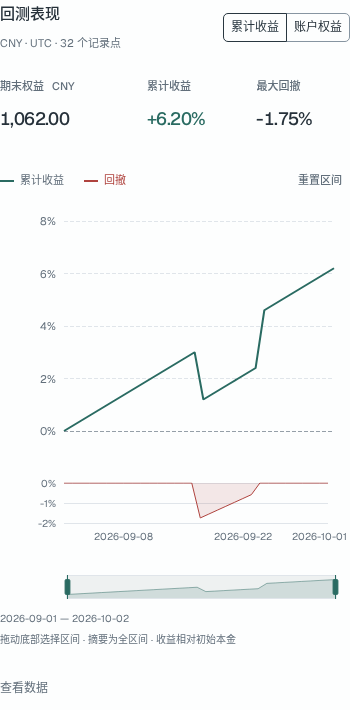
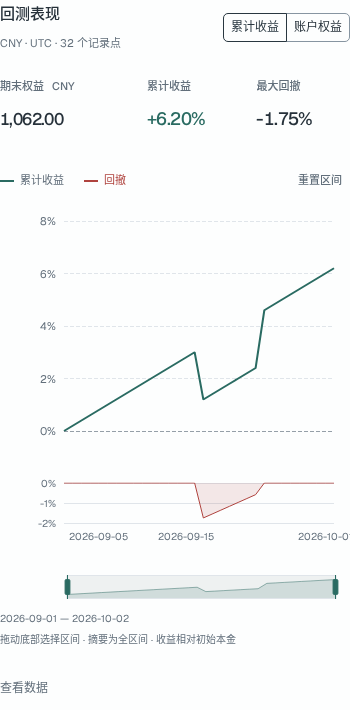
fix(web): retain exact decimal and co-located equity readouts

diff --git a/apps/web/src/equity-plot.tsx b/apps/web/src/equity-plot.tsx
@@ -6,7 +6,7 @@ import { AriaComponent, DataZoomComponent, GridComponent, MarkLineComponent, Too
 import { SVGRenderer } from 'echarts/renderers';
 import { Button, Radio, Table, theme } from 'antd';
 import type { EquityPoint } from '../../../packages/contracts/src/index.ts';
-import { equityCoordinates, equityPerformance, orderedEquityPoints } from './equity-values';
+import { equityCoordinates, equityPerformance, formatEquity, orderedEquityPoints } from './equity-values';
 import { Empty, Exact, Timestamp } from './ui';
 
 echarts.use([LineChart, GridComponent, TooltipComponent, DataZoomComponent, MarkLineComponent, AriaComponent, SVGRenderer]);
@@ -18,13 +18,18 @@ export default function EquityPlot({ points, currency, initialCapital }: { point
   const ordered = useMemo(() => orderedEquityPoints(points), [points]);
   const coordinates = useMemo(() => equityCoordinates(points), [points]);
   const performance = useMemo(() => equityPerformance(ordered, initialCapital), [ordered, initialCapital]);
+  const clockGroups = useMemo(() => {
+    const groups = new Map<number, number[]>();
+    coordinates.forEach(([at], index) => { const group = groups.get(at); if (group) group.push(index); else groups.set(at, [index]); });
+    return groups;
+  }, [coordinates]);
+  const tablePoints = useMemo(() => [...ordered, ...points.filter(point => !Number.isFinite(Date.parse(point.at)))], [ordered, points]);
   const [view, setView] = useState<'return' | 'equity'>('return');
   const showReturn = performance.hasCapital && view === 'return';
   const invalidTimes = points.length - ordered.length;
   const drawdownAvailable = performance.maxDrawdown !== null && invalidTimes === 0;
   const drawable = coordinates.some(point => point[1] !== null);
   const latest = invalidTimes ? undefined : ordered.at(-1);
-  const latestValue = invalidTimes ? null : coordinates.at(-1)?.[1];
   const latestReturn = invalidTimes ? null : performance.returns.at(-1);
   const { token } = theme.useToken();
   const { colorLink: accent, colorTextSecondary: secondary, colorBorderSecondary: line, colorError: loss, colorBgContainer: surface, colorText: text } = token;
@@ -41,16 +46,19 @@ export default function EquityPlot({ points, currency, initialCapital }: { point
       axisLine: { show: false }, axisTick: { show: false }, splitLine: { show: false }, splitNumber: 4,
       axisLabel: { show: visible, color: secondary, hideOverlap: true, fontSize: 10, formatter: (value: number) => { const at = new Date(value).toISOString(); return intraday ? at.slice(11, 19) : at.slice(0, 10); } } });
     chart.current?.setOption({ animation: false, useUTC: true, textStyle: { fontFamily: '"Geist Variable", system-ui, sans-serif' }, aria: { enabled: true, label: { description } },
-      grid: [{ top: 18, right: 16, bottom: drawdownAvailable ? '43%' : 80, left: 64 }, ...(drawdownAvailable ? [{ top: '70%', right: 16, bottom: 80, left: 64 }] : [])],
+      grid: [{ top: 18, right: 16, bottom: drawdownAvailable ? '43%' : 80, left: 64, outerBoundsMode: 'none' }, ...(drawdownAvailable ? [{ top: '70%', right: 16, bottom: 80, left: 64, outerBoundsMode: 'none' }] : [])],
       axisPointer: { link: [{ xAxisIndex: 'all' }], lineStyle: { color: secondary, type: 'dashed' } },
       tooltip: { trigger: 'axis', confine: true, renderMode: 'richText', backgroundColor: surface, borderColor: line, textStyle: { color: text, fontSize: 12 },
         formatter: (params: unknown) => {
           const item = (Array.isArray(params) ? params[0] : params) as { dataIndex: number } | undefined;
-          const index = item?.dataIndex; const point = index === undefined ? undefined : ordered[index];
-          return point ? `${point.at.replace('T', ' ').replace('Z', ' UTC')}\n账户权益  ${point.value ?? '未提供'} ${currency}${performance.hasCapital ? `\n累计收益  ${percent(performance.returns[index!])}\n回撤  ${drawdownAvailable ? percent(performance.drawdowns[index!]) : '不可用（记录不完整）'}` : ''}` : '';
+          const index = item?.dataIndex; const coordinate = index === undefined ? undefined : coordinates[index];
+          return coordinate ? (clockGroups.get(coordinate[0]) ?? []).map(index => {
+            const point = ordered[index]!;
+            return `${point.at.replace('T', ' ').replace('Z', ' UTC')}\n账户权益  ${point.value ?? '未提供'} ${currency}${performance.hasCapital ? `\n累计收益  ${percent(performance.returns[index])}\n回撤  ${drawdownAvailable ? percent(performance.drawdowns[index]) : '不可用（记录不完整）'}` : ''}`;
+          }).join('\n\n') : '';
         } },
       xAxis: [timeAxis(0, !drawdownAvailable), ...(drawdownAvailable ? [timeAxis(1, true)] : [])],
-      yAxis: [{ type: 'value', scale: true, splitNumber: 4, axisLabel: { color: secondary, fontSize: 11, formatter: (value: number) => showReturn ? `${axisNumber(value)}%` : axisNumber(value) }, splitLine: { lineStyle: { color: line, type: 'dashed' } } },
+      yAxis: [{ type: 'value', scale: true, splitNumber: 4, axisLabel: { color: secondary, fontSize: 11, width: 54, overflow: 'truncate', formatter: (value: number) => showReturn ? `${axisNumber(value)}%` : axisNumber(value) }, splitLine: { lineStyle: { color: line, type: 'dashed' } } },
         ...(drawdownAvailable ? [{ type: 'value', gridIndex: 1, max: 0, scale: true, splitNumber: 2, axisLabel: { color: secondary, fontSize: 10, formatter: (value: number) => `${axisNumber(value)}%` }, splitLine: { lineStyle: { color: line } } }] : [])],
       dataZoom: [{ id: 'time-slider', type: 'slider', xAxisIndex: drawdownAvailable ? [0, 1] : [0], filterMode: 'none', bottom: 4, height: 24, borderColor: line, backgroundColor: 'transparent', fillerColor: 'rgba(128,150,146,0.12)', textStyle: { color: secondary }, handleStyle: { color: accent, borderColor: accent }, dataBackground: { lineStyle: { color: secondary }, areaStyle: { color: line } }, selectedDataBackground: { lineStyle: { color: accent }, areaStyle: { color: accent, opacity: 0.16 } }, brushSelect: false, showDetail: false },
         { id: 'time-inside', type: 'inside', xAxisIndex: drawdownAvailable ? [0, 1] : [0], filterMode: 'none', zoomOnMouseWheel: 'ctrl' }],
@@ -58,13 +66,13 @@ export default function EquityPlot({ points, currency, initialCapital }: { point
         markLine: showReturn ? { silent: true, symbol: 'none', label: { show: false }, lineStyle: { color: secondary, type: 'dashed', opacity: 0.6 }, data: [{ yAxis: 0 }] } : { data: [] } },
         ...(drawdownAvailable ? [{ id: 'drawdown', name: '回撤', type: 'line', xAxisIndex: 1, yAxisIndex: 1, data: coordinates.map(([at], index) => [at, performance.drawdowns[index]]), connectNulls: false, smooth: false, showSymbol: false, lineStyle: { width: 1, color: loss }, areaStyle: { color: loss, opacity: 0.12 }, itemStyle: { color: loss } }] : [])],
     }, { replaceMerge: ['grid', 'xAxis', 'yAxis', 'series'] });
-  }, [coordinates, ordered, currency, performance, showReturn, drawdownAvailable, accent, secondary, line, loss, surface, text, description, intraday, drawable]);
+  }, [coordinates, ordered, clockGroups, currency, performance, showReturn, drawdownAvailable, accent, secondary, line, loss, surface, text, description, intraday, drawable]);
   if (!points.length) return <Empty title="尚无权益曲线" />;
   return <section className="equity-section">
     <div className="section-heading equity-heading"><div><h3>{initialCapital === undefined ? '账户权益' : '回测表现'}</h3><span className="quiet">{currency} · UTC · {ordered.length.toLocaleString('zh-CN')} 个记录点</span></div>
       {performance.hasCapital && <Radio.Group size="small" optionType="button" aria-label="曲线显示口径" value={view} onChange={event => setView(event.target.value)} options={[{ label: '累计收益', value: 'return' }, { label: '账户权益', value: 'equity' }]} />}</div>
     {performance.hasCapital && <dl className="equity-summary" aria-label="全区间表现">
-      <div><dt>期末权益 <span>{currency}</span></dt><dd title={latest?.value ?? undefined}>{latestValue == null ? '未提供' : latestValue.toLocaleString('zh-CN', { minimumFractionDigits: 2, maximumFractionDigits: 2 })}</dd></div>
+      <div><dt>期末权益 <span>{currency}</span></dt><dd className={(latest?.value?.length ?? 0) > 16 ? 'equity-long-value' : undefined}><Exact value={formatEquity(latest?.value)} /></dd></div>
       <div><dt>累计收益</dt><dd className={latestReturn != null && latestReturn < 0 ? 'equity-loss' : 'equity-gain'}>{percent(latestReturn)}</dd></div>
       <div><dt>最大回撤</dt><dd>{drawdownAvailable ? percent(performance.maxDrawdown) : '未提供'}</dd></div>
     </dl>}
@@ -73,6 +81,6 @@ export default function EquityPlot({ points, currency, initialCapital }: { point
     {drawable ? <><div className="equity-legend"><span><i />{showReturn ? '累计收益' : `账户权益 / ${currency}`}</span>{drawdownAvailable && <span className="equity-loss"><i />回撤</span>}<Button size="small" type="text" onClick={() => chart.current?.dispatchAction({ type: 'dataZoom', start: 0, end: 100 })}>重置区间</Button></div>
       <div ref={element} className={`equity-chart${drawdownAvailable ? ' with-drawdown' : ''}`} data-testid="equity-chart" role="img" aria-label={description} />
       <p className="equity-caption quiet">{ordered[0]?.at.slice(0, 10)} — {ordered.at(-1)?.at.slice(0, 10)}<span>拖动底部选择区间 · 摘要为全区间{performance.hasCapital && ' · 收益相对初始本金'}</span></p></> : <Empty title={points.every(point => point.value === null) ? '权益数值未提供' : '数值无法绘制'} />}
-    <details className="curve-details"><summary>查看数据</summary><Table<EquityPoint> rowKey={(point, index) => `${point.at}/${index}`} size="small" pagination={{ pageSize: 20, hideOnSinglePage: true }} dataSource={invalidTimes ? points : ordered} scroll={{ x: 450 }} columns={[{ title: '时间', render: (_value, point) => <Timestamp value={point.at} /> }, { title: `权益 / ${currency}`, align: 'right', render: (_value, point) => <Exact value={point.value} /> }]} /></details>
+    <details className="curve-details"><summary>查看数据</summary><Table<EquityPoint> rowKey={(point, index) => `${point.at}/${index}`} size="small" pagination={{ pageSize: 20, hideOnSinglePage: true }} dataSource={tablePoints} scroll={{ x: 450 }} columns={[{ title: '时间', render: (_value, point) => <Timestamp value={point.at} /> }, { title: `权益 / ${currency}`, align: 'right', render: (_value, point) => <Exact value={point.value} /> }]} /></details>
   </section>;
 }

diff --git a/apps/web/src/equity-values.ts b/apps/web/src/equity-values.ts
@@ -1,5 +1,4 @@
 import type { EquityPoint } from '../../../packages/contracts/src/index.ts';
-import { decimalUnits } from './commands';
 
 /** Sort a display copy, including native sub-ms clocks; preserve same-clock event order. */
 export function orderedEquityPoints(points: readonly EquityPoint[]): EquityPoint[] {
@@ -16,19 +15,32 @@ export function equityCoordinates(points: readonly EquityPoint[]): [number, numb
   return orderedEquityPoints(points).map(point => [Date.parse(point.at), plotValue(point.value)]);
 }
 
+export function formatEquity(value: string | null | undefined): string | undefined {
+  if (value == null) return;
+  const [whole, fraction] = value.split('.');
+  return whole!.replace(/\B(?=(\d{3})+(?!\d))/g, ',') + (fraction === undefined ? '' : `.${fraction}`);
+}
+function percentage(change: bigint, base: bigint): number | null {
+  const numerator = (change < 0n ? -change : change).toString(); const denominator = base.toString();
+  const mantissa = (digits: string) => Number(`${digits[0]}.${digits.slice(1, 17)}`);
+  // Convert significant digits only, so very large common decimal scales cannot overflow.
+  const value = (change < 0n ? -1 : 1) * mantissa(numerator) / mantissa(denominator) * 10 ** (numerator.length - denominator.length + 2);
+  return Number.isFinite(value) ? value : null;
+}
 /** Backtest display projection, never an account-flow-adjusted or annualized return. */
 export function equityPerformance(points: readonly EquityPoint[], initialCapital?: string) {
-  const capital = initialCapital === undefined ? undefined : decimalUnits(initialCapital);
+  const decimals = [initialCapital, ...points.map(point => point.value)].map(value => typeof value === 'string' && /^-?\d+(?:\.\d+)?$/.test(value) ? value.split('.') : undefined);
+  const scale = decimals.reduce((length, parts) => Math.max(length, parts?.[1]?.length ?? 0), 0);
+  const [capital, ...amounts] = decimals.map(parts => parts ? BigInt(parts[0]! + (parts[1] ?? '').padEnd(scale, '0')) : undefined);
   const hasCapital = capital !== undefined && capital > 0n;
-  const amounts = points.map(point => point.value === null ? undefined : decimalUnits(point.value));
   const complete = hasCapital && points.length > 0 && amounts.every(value => value !== undefined);
   let peak = hasCapital ? capital : 0n; let maxDrawdown: number | null = complete ? 0 : null;
-  const returns = amounts.map(value => hasCapital && value !== undefined ? Number(value - capital) / Number(capital) * 100 : null);
+  const returns = amounts.map(value => hasCapital && value !== undefined ? percentage(value - capital, capital) : null);
   const drawdowns = amounts.map(value => {
     if (!complete || value === undefined) return null;
     if (value > peak) peak = value;
-    const drawdown = Number(value - peak) / Number(peak) * 100;
-    maxDrawdown = Math.min(maxDrawdown!, drawdown);
+    const drawdown = percentage(value - peak, peak);
+    maxDrawdown = maxDrawdown === null || drawdown === null ? null : Math.min(maxDrawdown, drawdown);
     return drawdown;
   });
   return { hasCapital, returns, drawdowns, maxDrawdown };

diff --git a/apps/web/tests/workspace.spec.ts b/apps/web/tests/workspace.spec.ts
@@ -233,7 +233,7 @@ test('long native histories retain every exact table record without one SVG symb
 
 test('backtest performance orders old histories and links return, equity, drawdown and zoom across themes', async ({ page }, info) => {
   const state = await contract(page); state.portfolio.capital = '1000';
-  const chronological = Array.from({ length: 32 }, (_, i) => ({ at: new Date(Date.UTC(2026, 8, i + 1)).toISOString(), value: `${1000 + i * 2 - (i > 15 && i < 23 ? 20 : 0)}.000000000000000001` }));
+  const chronological = Array.from({ length: 32 }, (_, i) => ({ at: new Date(Date.UTC(2026, 8, i + 1)).toISOString(), value: `${1000 + i * 2 - (i > 15 && i < 23 ? 20 : 0)}.00` }));
   state.portfolio.curve = [...chronological.filter((_, i) => i % 2 === 0), ...chronological.filter((_, i) => i % 2 === 1)];
   const errors: string[] = []; page.on('pageerror', error => errors.push(error.message));
   await page.goto('/#/portfolios/p1'); await expect(page.getByRole('heading', { name: '回测表现', exact: true })).toBeVisible();
@@ -264,6 +264,27 @@ test('backtest performance orders old histories and links return, equity, drawdo
     await page.setViewportSize({ width: 1440, height: 1000 });
   }
   await audit(page); expect(errors).toEqual([]);
+});
+
+test('exact precision and every co-located clock remain readable; invalid rows do not unsort valid rows', async ({ page }) => {
+  const state = await contract(page); state.portfolio.capital = '100';
+  const amount = '9007199254740993.000000000000000000001';
+  state.portfolio.curve = [
+    { at: '2026-01-02T00:00:00Z', value: amount },
+    { at: '2026-01-01T00:00:00.000000003Z', value: '102' },
+    { at: '2026-01-01T00:00:00.000000001Z', value: '100.123456789012345678901' },
+    { at: '2026-01-01T00:00:00.000000002Z', value: '101' },
+  ];
+  await page.goto('/#/portfolios/p1'); await expect(page.locator('.equity-summary')).toContainText('9,007,199,254,740,993.000000000000000000001');
+  await expect(page.getByTestId('equity-chart')).toHaveClass(/with-drawdown/);
+  await page.getByTestId('equity-chart').scrollIntoViewIfNeeded();
+  const bounds = (await page.getByTestId('equity-chart').boundingBox())!; await page.mouse.move(bounds.x + bounds.width * 0.25, bounds.y + 80);
+  for (const suffix of ['001', '002', '003']) await expect(page.getByTestId('equity-chart').locator('text').filter({ hasText: `2026-01-01 00:00:00.000000${suffix} UTC` })).toBeVisible();
+  state.portfolio.curve.unshift({ at: 'invalid-clock', value: '99' }); await page.reload();
+  await expect(page.getByText('1 个记录时间无效，未绘制；原始记录见下方数据。', { exact: true })).toBeVisible();
+  await page.locator('.curve-details > summary').click();
+  await expect(page.locator('.curve-details .ant-table-row').first()).toContainText('2026-01-01 00:00:00.000000001');
+  await expect(page.locator('.curve-details .ant-table-row').last()).toContainText('invalid-clock');
 });
 
 test('refresh clears a pristine default model when another client removes it', async ({ page }) => {

diff --git a/apps/web/src/equity-values.test.ts b/apps/web/src/equity-values.test.ts
@@ -1,5 +1,5 @@
 import { expect, test } from 'vitest';
-import { equityCoordinates, equityPerformance, orderedEquityPoints } from './equity-values';
+import { equityCoordinates, equityPerformance, formatEquity, orderedEquityPoints } from './equity-values';
 
 test('coordinates sort elapsed time without changing original precision or null gaps', () => {
   const points = [{ at: '2026-10-18T00:00:00.000000001Z', value: '1001.000000000000000001' }, { at: '2026-10-17T00:00:00.000000001Z', value: '1000.000000000000000001' }, { at: '2026-10-17T00:00:01.000000001Z', value: null }];
@@ -31,6 +31,17 @@ test('returns use explicit capital; drawdown includes initial capital and negati
 test('incomplete history never publishes a complete-history drawdown or a fake latest return', () => {
   const points = [{ at: '2026-01-01', value: '100' }, { at: '2026-01-02', value: null }, { at: '2026-01-03', value: '110' }];
   expect(equityPerformance(points, '100')).toMatchObject({ returns: [0, null, 10], drawdowns: [null, null, null], maxDrawdown: null });
+});
+
+test('all accepted decimal scales remain available, including tiny and large amounts', () => {
+  const capital = '0.' + '0'.repeat(350) + '1';
+  const value = '0.' + '0'.repeat(350) + '2';
+  expect(equityPerformance([{ at: '2026-01-01', value }], capital)).toMatchObject({ hasCapital: true, returns: [100], drawdowns: [0], maxDrawdown: 0 });
+  const precise = equityPerformance([{ at: '2026-01-01', value: '100.12345678901234567890123456789' }], '100');
+  expect(precise.returns[0]).toBeCloseTo(0.1234567890123456789, 14);
+  expect(precise.maxDrawdown).toBe(0);
+  expect(formatEquity('9007199254740993.000000000000000001')).toBe('9,007,199,254,740,993.000000000000000001');
+  expect(formatEquity('0.000000000000000001')).toBe('0.000000000000000001');
 });
 
 test('decimal subtraction happens before conversion to plotting numbers', () => {

diff --git a/apps/web/src/components.css b/apps/web/src/components.css
@@ -81,6 +81,7 @@ details[open] > summary { margin-bottom: 14px; }
 .equity-summary dt > span { margin-left: 5px; }
 .equity-summary dd { margin: 0; font-size: clamp(18px, 2vw, 26px); font-weight: 500; letter-spacing: -.6px; font-variant-numeric: tabular-nums; overflow-wrap: anywhere; }
 .equity-summary .exact-value { font-family: inherit; }
+.equity-summary dd.equity-long-value { font-size: 15px; line-height: 1.6; letter-spacing: 0; word-break: break-all; }
 .equity-gain { color: var(--accent); }
 .equity-loss { color: var(--error); }
 .equity-legend { display: flex; align-items: center; gap: 20px; color: var(--secondary); font-size: 11px; }

diff --git a/.opensdlc/tasks/backtest-performance-chart/task.md b/.opensdlc/tasks/backtest-performance-chart/task.md
@@ -32,6 +32,13 @@ The owner requested deep investigation and a replacement for the tangled backtes
 - `git diff --check`: passed. `make check-links` could not run because `lychee` is not installed.
 - `cua.getState()` could not connect to native desktop (DISPLAY/XAUTHORITY absent); no browser/app surfaces were listed. The installed service at port 18080 requires authentication; the owner's original account data and live screenshot reproduction remain unchecked. No installed service, database, scientific calculation, credentials or original records were changed.
 
+<a id="review"></a>
+## Review and delivery
+
+[PR #214](https://github.com/zhengui666/QuaZonai/pull/214) targets `dev`. Initial head `e430056f` passed all hosted CI jobs, including science/core. Read-only GitHub Codex review found four concrete display-boundary issues; this follow-up aligns arbitrary decimal scales instead of importing the form's 18-digit limit, keeps the headline as an exact decimal string, exposes every co-located clock in the tooltip, and places invalid raw rows after sorted valid rows. Added unit/browser regressions cover each case. ECharts outer-bound auto adjustment is disabled on both grids so wide labels cannot shift their time axes independently. A failing long-scale regression was observed before this correction.
+
+After correction: `make check-web` passed (11 unit tests, types and build); both focused browser checks passed, including three sub-ms clocks, >18-place decimals, unsafe-integer headline precision, and invalid mixed histories. Updated test-data screenshots are linked above. Final-head hosted checks and explicit clean re-review remain required before merge; no deployment is performed by this task.
+
 <a id="handoff"></a>
 ## Workspace
 
